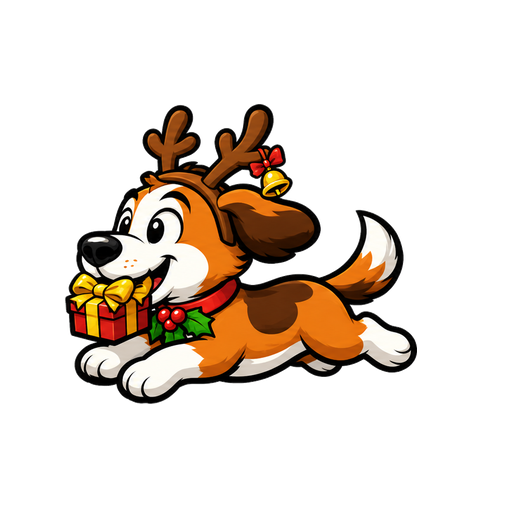
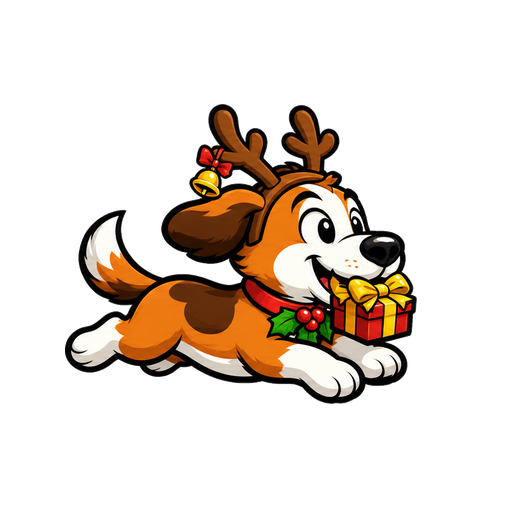
Christmas intro: the antler dog runs away facing right, like the classic dog (the art faced left)
Claude-Session: https://claude.ai/code/session_0159JQZ2NBmTHr78MUrLghND

Changed region(s): [[0.125, 0.1875, 0.8125, 0.8125]]

diff --git a/tools/make_christmas.py b/tools/make_christmas.py
@@ -91,8 +91,10 @@ def build():
         j = ms.bottom_scaled(rd[c_], sc); save(canvas_of(j, 320, 255, (320 - j.width) // 2, 255 - j.height), 'christmas-fireball-%s.png' % n)
     # the dog in antlers: two running frames with a present, and standing without
     d = sheet('dog', 3, holes=True)
-    save(ms.place((512, 512), d[(0, 0)], (14, 104, 468, 404)), 'christmas-dog.png')
-    save(ms.place((512, 512), d[(0, 2)], (60, 70, 452, 420)), 'christmas-dognodog.png')
+    # the intro dogs face right like dog.png (the art faces left, like the bonus dogs sp-dog-a / -b, which stay as drawn)
+    flip = lambda im: im.transpose(Image.FLIP_LEFT_RIGHT)
+    save(ms.place((512, 512), flip(d[(0, 0)]), (14, 104, 468, 404)), 'christmas-dog.png')
+    save(ms.place((512, 512), flip(d[(0, 2)]), (60, 70, 452, 420)), 'christmas-dognodog.png')
     sc = min(280 / max(d[(0, 0)].width, d[(0, 1)].width), 164 / max(d[(0, 0)].height, d[(0, 1)].height))
     for c_, n in [((0, 0), 'a'), ((0, 1), 'b')]:
         j = ms.bottom_scaled(d[c_], sc); save(canvas_of(j, 280, 208, (280 - j.width) // 2, 186 - j.height), 'christmas-dog-%s.png' % n)
